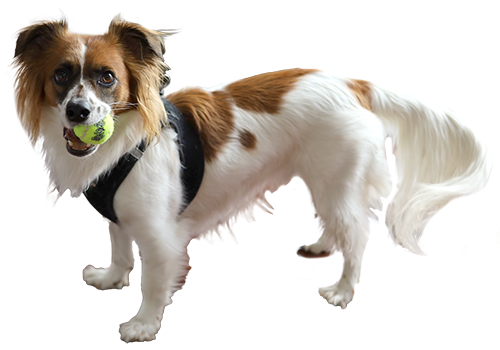
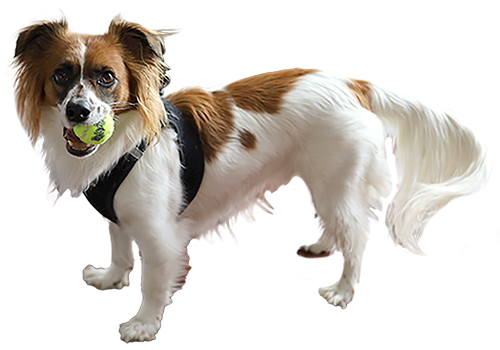
image file conversion

diff --git a/src/components/Home_Second_Section/Second_section.js b/src/components/Home_Second_Section/Second_section.js
@@ -37,7 +37,7 @@ const Second_section = () => {
               </div>
               <img
                 className="benji_photo"
-                src="/Home_IMG/benji.png"
+                src="/Home_IMG/benji.avif"
                 width="500px"
                 height="auto"
                 alt="small mixed breed dog with ball in his mouth"
